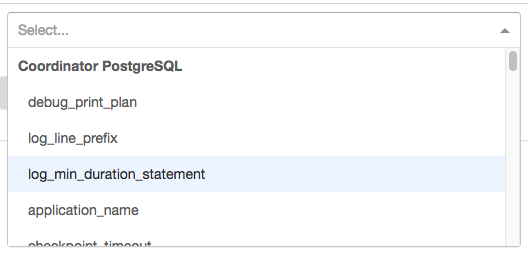
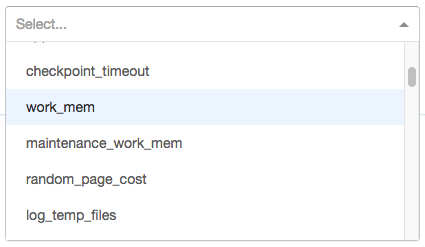
Update with new interface
which displays default units for numerical parameters

Changed region(s): [[0.0, 0.0, 1.0, 0.9919]]

diff --git a/cloud/performance.rst b/cloud/performance.rst
@@ -108,10 +108,4 @@ Selecting an option opens an input box that accepts the appropriate values, whet
 
 .. image:: ../images/cloud-pg-conf-option.png
 
-Numerical parameters do not yet allow specifying units in this interface, and are interpreted as their default unit. A reference of the default units is available in the database from the ``pg_settings`` table:
-
-.. code-block:: sql
-
-  SELECT name, unit FROM pg_settings WHERE unit IS NOT NULL;
-
-So for instance, to specify ``work_mem`` of ``1GB``, use the value 1048576 because the default unit for ``work_mem`` is kilobytes.
+Numerical parameters do not yet allow specifying units in this interface, and are interpreted as their default unit. The default unit appears in the description under the selected parameter. For instance in the picture above it says, "in kilobytes." In this example one could specify a ``work_mem`` of ``1GB`` using the value 1048576 (= 1024*1024).
